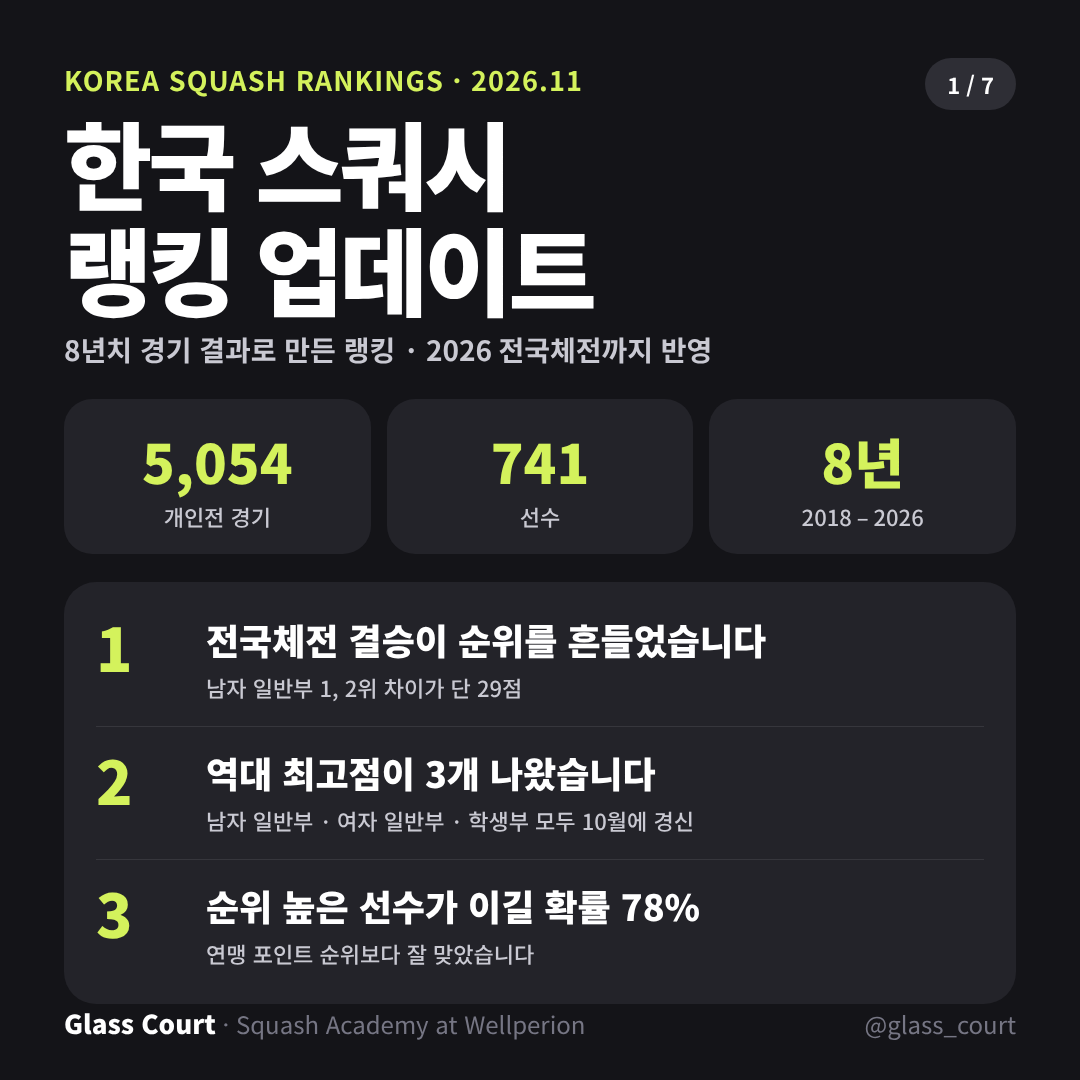
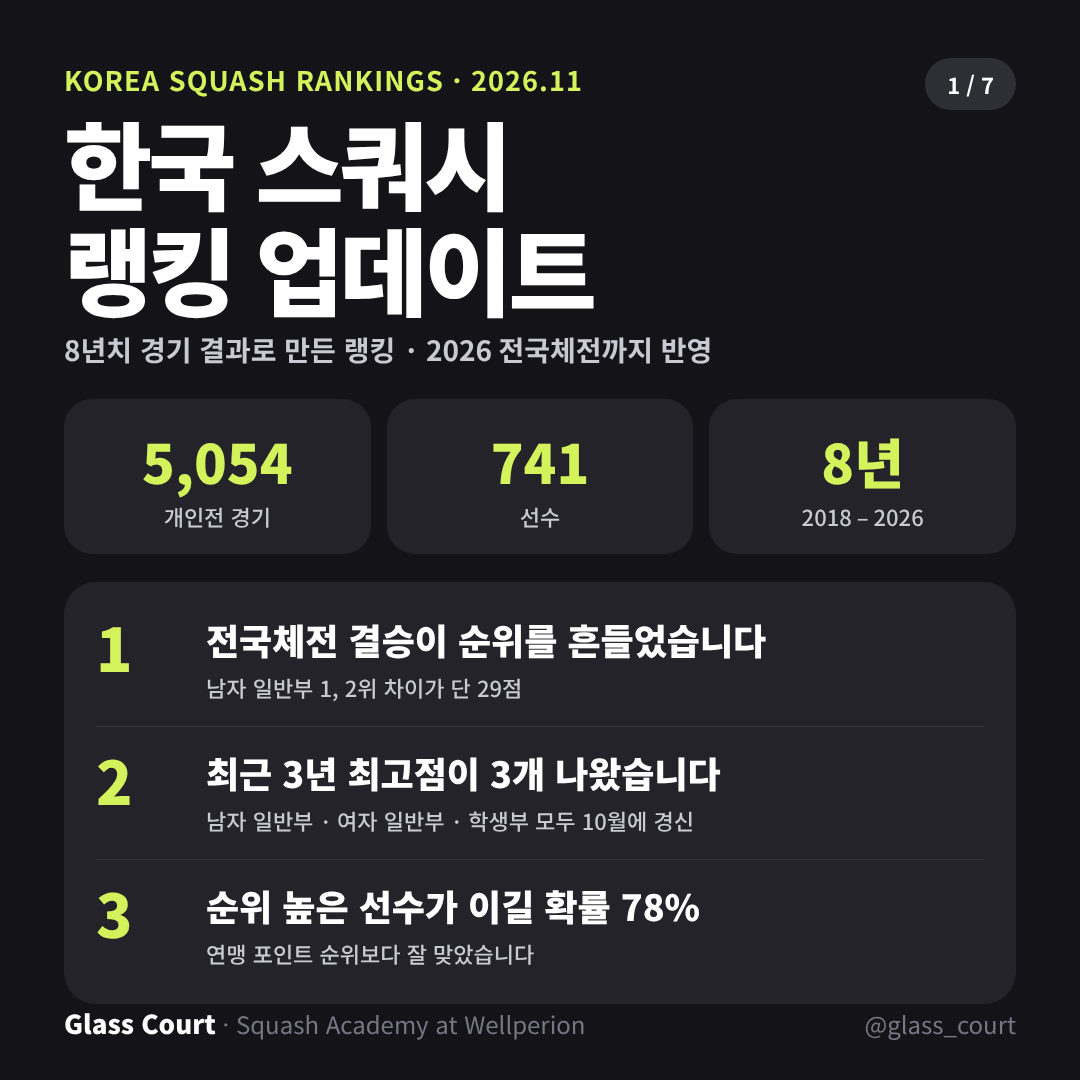
Rankings series: peak-rating section and card in Part 2; say 최근 3년 instead of 역대 for peaks
Peaks are taken inside the three-year rating window, so the posts and cards
no longer call them all-time.

Claude-Session: https://claude.ai/code/session_01CdeiW4intgnNFddLfZnSFo

Changed region(s): [[0.1833, 0.7028, 0.6722, 0.7333]]

diff --git a/content/ksf-rankings-blog/cards/source/build_series.py b/content/ksf-rankings-blog/cards/source/build_series.py
@@ -19,7 +19,7 @@ P1=[cover(1,'한국 스쿼시 랭킹,<br>직접 만들었습니다','8년치 경
  data,
  pts('HOW IT WORKS','어떻게 계산하나요?',[('누구를 이겼는지','강한 상대를 이기면 많이 오르고, 약한 상대에게 지면 크게 떨어집니다'),('몇 대 몇인지','3:0 완승과 3:2 신승은 다르게, 5게임제는 더 무겁게 반영'),('최근 3년만','오래 쉬면 감점, 최근 1년 출전 선수만 랭킹에 표시'),('일반부와 학생부는 따로','학생부 성적이 일반부 실력으로 읽히지 않게 분리')]),
  C[6].split('<div class="panel">\n<div class="pt">')[0].__add__('<p class="close">10경기 중 8경기는<br><em>순위가 높은 선수가 이겼습니다</em></p><p class="fine">최근 3년 경기만 반영 · 일반부와 학생부는 따로 계산 · 자세한 내용은 블로그에서</p>').replace('<p class="fine">최근 3년 경기만 반영 · 일반부와 학생부는 따로 계산 · 자세한 내용은 블로그에서</p>','<p class="fine">다음 편: 전국체전까지 반영한 현재 랭킹 공개</p>')]
-P2=[cover(2,'지금 한국<br>스쿼시 랭킹','2026 전국체전까지 반영 · 최근 1년 출전 선수 기준',[('남자 일반부 1, 2위는 단 29점 차','전국체전 결승이 순위를 흔들었습니다'),('역대 최고점이 3개 나왔습니다','남자 일반부 · 여자 일반부 · 학생부 모두 10월에 경신'),('이민우 vs 나주영','맞대결은 나주영이 4승 3패로 앞섭니다')]),C[1],C[2],C[3],C[4]]
+P2=[cover(2,'지금 한국<br>스쿼시 랭킹','2026 전국체전까지 반영 · 최근 1년 출전 선수 기준',[('남자 일반부 1, 2위는 단 29점 차','전국체전 결승이 순위를 흔들었습니다'),('최근 3년 최고점이 3개 나왔습니다','남자 일반부 · 여자 일반부 · 학생부 모두 10월에 경신'),('이민우 vs 나주영','맞대결은 나주영이 4승 3패로 앞섭니다')]),C[1],C[2],C[3],C[4]]
 P3=[cover(3,'8년치<br>기록실','2018 – 2026 개인전 5,054경기에서 찾은 기록',[('최다승과 승률 1위는 같은 선수','통산 125승 10패'),('가장 많이 만난 두 선수는 13번','그것도 7승 6패'),('승부의 67%는 3:0','일반부는 57%로 더 팽팽합니다')]),
  C[5],
  stats('WIN RATE · 2018 – 2026','승률 TOP',[('일반부 승률 1위 (20경기 이상)','이민우','91.4%','74승 7패'),('일반부 승률 2위','나주영','88.9%','32승 4패'),('일반부 승률 3위','엄화영','84.9%','62승 11패'),('통산 승률 1위 (50경기 이상)','이민우','92.6%','125승 10패'),('통산 승률 2위','김찬영','89.2%','58승 7패')],'통산 = 일반부 + 학생부 개인전 전체'),
@@ -45,11 +45,16 @@ F='최근 1년 내 출전 선수 기준 · 최근 3년 전적'
 teaser='<p class="kick">PREVIEW · PART 2</p><h1 class="t">미리보기: 일반부 TOP 5</h1><div class="two"><div class="panel"><h3><span class="sq him">남</span>남자</h3>'+''.join(f'<div class="rk t{" top" if n==1 else ""}"><div class="n">{n}</div><div class="nm">{a}<small>{t}</small></div><div class="pt2">{p}</div></div>' for n,a,t,p,*_ in T['open남자'][:5])+'</div><div class="panel"><h3><span class="sq her">여</span>여자</h3>'+''.join(f'<div class="rk t{" top" if n==1 else ""}"><div class="n">{n}</div><div class="nm">{a}<small>{t}</small></div><div class="pt2">{p}</div></div>' for n,a,t,p,*_ in T['open여자'][:5])+'</div></div><p class="close">남자 1, 2위는 단 29점 차.<br><em>TOP 20 전체는 다음 편에서 공개합니다</em></p>'
 P1[3]=P1[3].replace('<p class="fine">다음 편: 전국체전까지 반영한 현재 랭킹 공개</p>','')
 P1.append(teaser)
-P2=[cover(2,'지금 한국<br>스쿼시 랭킹 TOP 20','2026 전국체전까지 반영 · 최근 1년 출전 선수 기준',[('남자 일반부 1, 2위는 단 29점 차','전국체전 결승이 순위를 흔들었습니다'),('역대 최고점이 3개 나왔습니다','남자 일반부 · 여자 일반부 · 학생부 모두 10월에 경신'),('이민우 vs 나주영','맞대결은 나주영이 4승 3패로 앞섭니다')]),
+P2=[cover(2,'지금 한국<br>스쿼시 랭킹 TOP 20','2026 전국체전까지 반영 · 최근 1년 출전 선수 기준',[('남자 일반부 1, 2위는 단 29점 차','전국체전 결승이 순위를 흔들었습니다'),('최근 3년 최고점이 3개 나왔습니다','남자 일반부 · 여자 일반부 · 학생부 모두 10월에 경신'),('이민우 vs 나주영','맞대결은 나주영이 4승 3패로 앞섭니다')]),
  ten('국가 랭킹 · 일반부','him','남','남자 1 – 10위',T['open남자'][:10],F),ten('국가 랭킹 · 일반부','him','남','남자 11 – 20위',T['open남자'][10:],F),
  ten('국가 랭킹 · 일반부','her','여','여자 1 – 10위',T['open여자'][:10],F),ten('국가 랭킹 · 일반부','her','여','여자 11 – 20위',T['open여자'][10:],F),
- twenty('학생부 랭킹 · U12 – 대학부','him','남','학생부 남자 TOP 20',T['student남자'],'최근 1년 내 출전 선수 기준'),twenty('학생부 랭킹 · U12 – 대학부','her','여','학생부 여자 TOP 20',T['student여자'],'최근 1년 내 출전 선수 기준 · 박솔민 학생부 역대 최고점 1885점'),
+ twenty('학생부 랭킹 · U12 – 대학부','him','남','학생부 남자 TOP 20',T['student남자'],'최근 1년 내 출전 선수 기준'),twenty('학생부 랭킹 · U12 – 대학부','her','여','학생부 여자 TOP 20',T['student여자'],'최근 1년 내 출전 선수 기준 · 박솔민 학생부 최근 3년 최고점 1885점'),
  C[4]]
+
+def peakcol(sexc,sexl,lab,rows):
+    return f'<div class="panel"><h3><span class="sq {sexc}">{sexl}</span>{lab}</h3>'+''.join(f'<div class="rk t{" top" if i==0 else ""}" style="padding:12px 0"><div class="n">{i+1}</div><div class="nm">{a}<small>{d}</small></div><div class="pt2">{p}</div></div>' for i,(a,p,d) in enumerate(rows))+'</div>'
+peak='<p class="kick">PEAK RATING · 최근 3년</p><h1 class="t">선수별 최고점</h1><div class="two" style="margin-top:20px">'+peakcol('him','남','일반부 남자',[('이민우',1942,'2026.10 전국체전'),('나주영',1901,'2026.10 전국체전'),('오서진',1763,'2026.10')])+peakcol('her','여','일반부 여자',[('엄화영',1874,'2026.10 전국체전'),('허민경',1777,'2025.04'),('최유라',1741,'2026.06')])+'</div><div class="two" style="margin-top:18px">'+peakcol('him','남','학생부 남자',[('박민기',1754,'2026.07'),('김찬영',1716,'2026.06'),('김준호',1693,'2026.07')])+peakcol('her','여','학생부 여자',[('박솔민',1885,'2026.10 전국체전'),('이해인',1771,'2026.03'),('김하연',1665,'2025.06')])+'</div><p class="fine">네 부문 1위 중 세 명이 지난달 전국체전에서 최고점을 찍었습니다</p>'
+P2.insert(7,peak)
 extra+=open('theme_lime.css').read()
 html=lambda cs:f'<!doctype html><html lang="ko"><head><meta charset="utf-8"><style>{css}{extra}</style></head><body style="margin:0;background:#141418">'+''.join(card(i+1,len(cs),b) for i,b in enumerate(cs))+'</body></html>'
 for k,cs in [('part1',P1),('part2',P2),('part3',P3)]:

diff --git a/content/ksf-rankings-blog/cards/source/build.py b/content/ksf-rankings-blog/cards/source/build.py
@@ -38,19 +38,19 @@ C.append('''<p class="kick">KOREA SQUASH RANKINGS · 2026.11</p>
 <div class="nums"><div><b>5,054</b><span>개인전 경기</span></div><div><b>741</b><span>선수</span></div><div><b>8년</b><span>2018 – 2026</span></div></div>
 <div class="panel">
 <div class="pt"><div class="n">1</div><div><h4>전국체전 결승이 순위를 흔들었습니다</h4><p>남자 일반부 1, 2위 차이가 단 29점</p></div></div>
-<div class="pt"><div class="n">2</div><div><h4>역대 최고점이 3개 나왔습니다</h4><p>남자 일반부 · 여자 일반부 · 학생부 모두 10월에 경신</p></div></div>
+<div class="pt"><div class="n">2</div><div><h4>최근 3년 최고점이 3개 나왔습니다</h4><p>남자 일반부 · 여자 일반부 · 학생부 모두 10월에 경신</p></div></div>
 <div class="pt"><div class="n">3</div><div><h4>순위 높은 선수가 이길 확률 78%</h4><p>연맹 포인트 순위보다 잘 맞았습니다</p></div></div>
 </div>''')
 M=[(1,'이민우','충청북도체육회',1930,'65승 5패'),(2,'나주영','충청남도체육회',1901,'32승 4패'),(3,'오서진','인천광역시체육회',1757,'25승 10패'),(4,'고영조','광주광역시체육회',1676,'20승 11패'),(5,'강우석','울산광역시체육회',1670,'31승 17패')]
 W=[(1,'엄화영','인천광역시체육회',1874,'52승 7패'),(2,'허민경','경상남도체육회',1746,'38승 10패'),(3,'최유라','경상남도체육회',1741,'25승 8패'),(4,'이지현','대전광역시체육회',1696,'30승 13패'),(5,'양연수','전라남도청',1671,'25승 13패')]
 C.append('<p class="kick">국가 랭킹 · 일반부</p><h1 class="t" style="display:flex;gap:16px;align-items:center"><span class="sq him">남</span>남자 TOP 5</h1><div class="panel" style="padding-top:4px;padding-bottom:4px">'+''.join(rk(*r) for r in M)+'</div><p class="fine">최근 1년 내 출전 선수 기준 · 점수 옆은 최근 3년 전적 · 1, 2위 차이 단 29점</p>')
-C.append('<p class="kick">국가 랭킹 · 일반부</p><h1 class="t" style="display:flex;gap:16px;align-items:center"><span class="sq her">여</span>여자 TOP 5</h1><div class="panel" style="padding-top:4px;padding-bottom:4px">'+''.join(rk(*r) for r in W)+'</div><p class="fine">최근 1년 내 출전 선수 기준 · 점수 옆은 최근 3년 전적 · 엄화영 역대 최고점 경신</p>')
+C.append('<p class="kick">국가 랭킹 · 일반부</p><h1 class="t" style="display:flex;gap:16px;align-items:center"><span class="sq her">여</span>여자 TOP 5</h1><div class="panel" style="padding-top:4px;padding-bottom:4px">'+''.join(rk(*r) for r in W)+'</div><p class="fine">최근 1년 내 출전 선수 기준 · 점수 옆은 최근 3년 전적 · 엄화영 최근 3년 최고점 경신</p>')
 SM=[(1,'박민기','한국체육대학교',1754),(2,'김찬영','대구스쿼시유스클럽',1696),(3,'김준호','중앙대학교',1693),(4,'이용욱','중앙대학교',1664),(5,'김서준','장호원중학교',1629)]
 SW=[(1,'박솔민','동일미래과학고',1885),(2,'이해인','나주스포츠클럽',1728),(3,'김하연','한국체육대학교',1636),(4,'서예은','신안산대학교',1628),(5,'이재인','언양고등학교',1593)]
-C.append('<p class="kick">학생부 랭킹 · U12 – 대학부</p><h1 class="t">학생부 TOP 5</h1><div class="two"><div class="panel"><h3><span class="sq him">남</span>남자</h3>'+''.join(rk(n,a,b,p,'',True) for n,a,b,p in SM)+'</div><div class="panel"><h3><span class="sq her">여</span>여자</h3>'+''.join(rk(n,a,b,p,'',True) for n,a,b,p in SW)+'</div></div><p class="close">박솔민, 전국체전 우승으로<br><em>학생부 역대 최고점 1885점</em></p>')
+C.append('<p class="kick">학생부 랭킹 · U12 – 대학부</p><h1 class="t">학생부 TOP 5</h1><div class="two"><div class="panel"><h3><span class="sq him">남</span>남자</h3>'+''.join(rk(n,a,b,p,'',True) for n,a,b,p in SM)+'</div><div class="panel"><h3><span class="sq her">여</span>여자</h3>'+''.join(rk(n,a,b,p,'',True) for n,a,b,p in SW)+'</div></div><p class="close">박솔민, 전국체전 우승으로<br><em>학생부 최근 3년 최고점 1885점</em></p>')
 H=[('2024.08','나주영 승','3–1','b'),('2025.03','나주영 승','3–2','b'),('2025.06','이민우 승','3–1','a'),('2025.08','이민우 승','3–1','a'),('2025.10 전국체전','나주영 승','3–2','b'),('2026.06','이민우 승','3–2','a'),('2026.10 전국체전','나주영 승','3–1','b')]
 C.append('<p class="kick">RIVALRY · 남자 일반부</p><h1 class="t">지금 가장 뜨거운 라이벌</h1><div class="vsline"><div class="tm">이민우<small>랭킹 1위 · 1930점</small></div><div class="x">3 – 4</div><div class="tm" style="text-align:right">나주영<small>랭킹 2위 · 1901점</small></div></div><div class="panel" style="margin-top:18px;padding-top:6px;padding-bottom:6px">'+''.join(f'<div class="h2h {c}"><div class="d" style="grid-column:1/2;white-space:nowrap">{d}</div><div>{w}</div><div class="r">{s}</div></div>' for d,w,s,c in H)+'</div><p class="fine">이민우의 8년간 일반부 패배는 단 7번, 그중 4번이 나주영</p>')
-S=[('일반부 최다승 · 승률 1위','이민우','74승','승률 91.4%'),('학생부 최다승','박솔민','65승','65승 9패'),('최다 경기 (개인전)','이민우','135경기','125승 10패'),('일반부 최다 우승','이민우','12회','2위 엄화영 9회'),('역대 최고 점수','이민우','1942점','2026.10')]
+S=[('일반부 최다승 · 승률 1위','이민우','74승','승률 91.4%'),('학생부 최다승','박솔민','65승','65승 9패'),('최다 경기 (개인전)','이민우','135경기','125승 10패'),('일반부 최다 우승','이민우','12회','2위 엄화영 9회'),('최근 3년 최고 점수','이민우','1942점','2026.10')]
 C.append('<p class="kick">RECORDS · 2018 – 2026</p><h1 class="t">8년치 기록실</h1><div class="panel" style="padding-top:4px;padding-bottom:4px">'+''.join(f'<div class="stat"><div><div class="k">{k}</div><div class="v">{v}</div></div><div class="num">{n}<small>{s}</small></div></div>' for k,v,n,s in S)+'</div>')
 C.append('''<p class="kick">HOW IT WORKS</p><h1 class="t">이 랭킹, 잘 맞을까요?</h1>
 <p class="sub" style="margin-top:14px">순위가 높은 선수가 실제로 이긴 비율<br>2024–2026 일반부 385경기</p>

diff --git a/content/ksf-rankings-blog/blog.md b/content/ksf-rankings-blog/blog.md
@@ -101,9 +101,37 @@
 
 ---
 
-## 4. 이민우 vs 나주영, 지금 한국 스쿼시에서 제일 뜨거운 라이벌
+## 4. 선수별 최고점은 언제였을까
 
-지난달 전국체전 남자 일반부 결승에서 **나주영 선수가 이민우 선수를 3:1로 이겼습니다.** 이민우 선수는 그 직전 4강까지 이기면서 역대 최고점인 1942점을 찍었는데, 결승 한 경기로 점수가 내려가고 나주영 선수는 커리어 하이 1901점을 찍었습니다.
+지금 점수 말고, 각 선수가 가장 높이 올라갔던 순간도 정리해 봤습니다. 랭킹을 계산하는 최근 3년 안에서 찍은 최고점 기준입니다.
+
+**일반부 남자**
+1. 이민우 1942점 (2026년 10월, 전국체전 4강 직후)
+2. 나주영 1901점 (2026년 10월, 전국체전 우승 직후)
+3. 오서진 1763점 (2026년 10월)
+
+**일반부 여자**
+1. 엄화영 1874점 (2026년 10월, 전국체전 우승 직후)
+2. 허민경 1777점 (2025년 4월)
+3. 최유라 1741점 (2026년 6월)
+
+**학생부 남자**
+1. 박민기 1754점 (2026년 7월)
+2. 김찬영 1716점 (2026년 6월)
+3. 김준호 1693점 (2026년 7월)
+
+**학생부 여자**
+1. 박솔민 1885점 (2026년 10월, 전국체전 우승 직후)
+2. 이해인 1771점 (2026년 3월)
+3. 김하연 1665점 (2025년 6월)
+
+재미있는 건 네 부문 최고점 1위 중 세 명(이민우, 엄화영, 박솔민)이 지난달 전국체전에서 그 점수를 찍었다는 점입니다. 이민우 선수는 4강까지 이기면서 1942점까지 올라갔다가 결승에서 지면서 1930점으로 내려왔고, 나주영, 엄화영, 박솔민 선수는 지금 점수가 곧 커리어 하이입니다. 다들 지금이 제일 잘하고 있다는 뜻이니, 다음 대회가 더 기대됩니다 ㅎㅎ
+
+---
+
+## 5. 이민우 vs 나주영, 지금 한국 스쿼시에서 제일 뜨거운 라이벌
+
+지난달 전국체전 남자 일반부 결승에서 **나주영 선수가 이민우 선수를 3:1로 이겼습니다.** 이민우 선수는 그 직전 4강까지 이기면서 최근 3년 최고점인 1942점을 찍었는데, 결승 한 경기로 점수가 내려가고 나주영 선수는 커리어 하이 1901점을 찍었습니다.
 
 두 선수의 일반부 맞대결 기록을 보면 더 재미있습니다.
 
@@ -119,12 +147,12 @@
 
 ---
 
-## 5. 데이터 뒤지다 발견한 재미있는 기록들
+## 6. 데이터 뒤지다 발견한 재미있는 기록들
 
 여기서부터는 랭킹 계산과 별개로, 8년치(2018~2026) 개인전 기록 전체를 가지고 뽑아본 숫자들입니다.
 
-### 🏆 역대 최고 점수
-국가 랭킹 역대 최고 점수는 **이민우 선수의 1942점**(2026년 10월 전국체전 4강 직후)입니다. 여자부는 엄화영 선수의 1874점, 학생부는 박솔민 선수의 1885점이 최고 기록인데, 두 선수 모두 지난달 전국체전 우승으로 커리어 하이를 찍었습니다.
+### 🏆 최근 3년 최고 점수
+국가 랭킹 최근 3년 최고 점수는 **이민우 선수의 1942점**(2026년 10월 전국체전 4강 직후)입니다. 여자부는 엄화영 선수의 1874점, 학생부는 박솔민 선수의 1885점이 최고 기록인데, 두 선수 모두 지난달 전국체전 우승으로 커리어 하이를 찍었습니다.
 
 ### 🥇 일반부 최다승
 1. 이민우 – 74승

diff --git a/content/ksf-rankings-blog/series/part2_현재_랭킹.md b/content/ksf-rankings-blog/series/part2_현재_랭킹.md
@@ -131,9 +131,37 @@
 
 ---
 
-## 3. 이민우 vs 나주영, 지금 한국 스쿼시에서 제일 뜨거운 라이벌
+## 3. 선수별 최고점은 언제였을까
 
-지난달 전국체전 남자 일반부 결승에서 **나주영 선수가 이민우 선수를 3:1로 이겼습니다.** 이민우 선수는 그 직전 4강까지 이기면서 역대 최고점인 1942점을 찍었는데, 결승 한 경기로 점수가 내려가고 나주영 선수는 커리어 하이 1901점을 찍었습니다.
+지금 점수 말고, 각 선수가 가장 높이 올라갔던 순간도 정리해 봤습니다. 랭킹을 계산하는 최근 3년 안에서 찍은 최고점 기준입니다.
+
+**일반부 남자**
+1. 이민우 1942점 (2026년 10월, 전국체전 4강 직후)
+2. 나주영 1901점 (2026년 10월, 전국체전 우승 직후)
+3. 오서진 1763점 (2026년 10월)
+
+**일반부 여자**
+1. 엄화영 1874점 (2026년 10월, 전국체전 우승 직후)
+2. 허민경 1777점 (2025년 4월)
+3. 최유라 1741점 (2026년 6월)
+
+**학생부 남자**
+1. 박민기 1754점 (2026년 7월)
+2. 김찬영 1716점 (2026년 6월)
+3. 김준호 1693점 (2026년 7월)
+
+**학생부 여자**
+1. 박솔민 1885점 (2026년 10월, 전국체전 우승 직후)
+2. 이해인 1771점 (2026년 3월)
+3. 김하연 1665점 (2025년 6월)
+
+재미있는 건 네 부문 최고점 1위 중 세 명(이민우, 엄화영, 박솔민)이 지난달 전국체전에서 그 점수를 찍었다는 점입니다. 이민우 선수는 4강까지 이기면서 1942점까지 올라갔다가 결승에서 지면서 1930점으로 내려왔고, 나주영, 엄화영, 박솔민 선수는 지금 점수가 곧 커리어 하이입니다. 다들 지금이 제일 잘하고 있다는 뜻이니, 다음 대회가 더 기대됩니다 ㅎㅎ
+
+---
+
+## 4. 이민우 vs 나주영, 지금 한국 스쿼시에서 제일 뜨거운 라이벌
+
+지난달 전국체전 남자 일반부 결승에서 **나주영 선수가 이민우 선수를 3:1로 이겼습니다.** 이민우 선수는 그 직전 4강까지 이기면서 최근 3년 최고점인 1942점을 찍었는데, 결승 한 경기로 점수가 내려가고 나주영 선수는 커리어 하이 1901점을 찍었습니다.
 
 두 선수의 일반부 맞대결 기록을 보면 더 재미있습니다.
 

diff --git a/content/ksf-rankings-blog/series/part3_기록실.md b/content/ksf-rankings-blog/series/part3_기록실.md
@@ -13,8 +13,8 @@
 
 ---
 
-## 🏆 역대 최고 점수
-국가 랭킹 역대 최고 점수는 **이민우 선수의 1942점**(2026년 10월 전국체전 4강 직후)입니다. 여자부는 엄화영 선수의 1874점, 학생부는 박솔민 선수의 1885점이 최고 기록인데, 두 선수 모두 지난달 전국체전 우승으로 커리어 하이를 찍었습니다.
+## 🏆 최근 3년 최고 점수
+국가 랭킹 최근 3년 최고 점수는 **이민우 선수의 1942점**(2026년 10월 전국체전 4강 직후)입니다. 여자부는 엄화영 선수의 1874점, 학생부는 박솔민 선수의 1885점이 최고 기록인데, 두 선수 모두 지난달 전국체전 우승으로 커리어 하이를 찍었습니다.
 
 ## 🥇 일반부 최다승
 1. 이민우 – 74승
